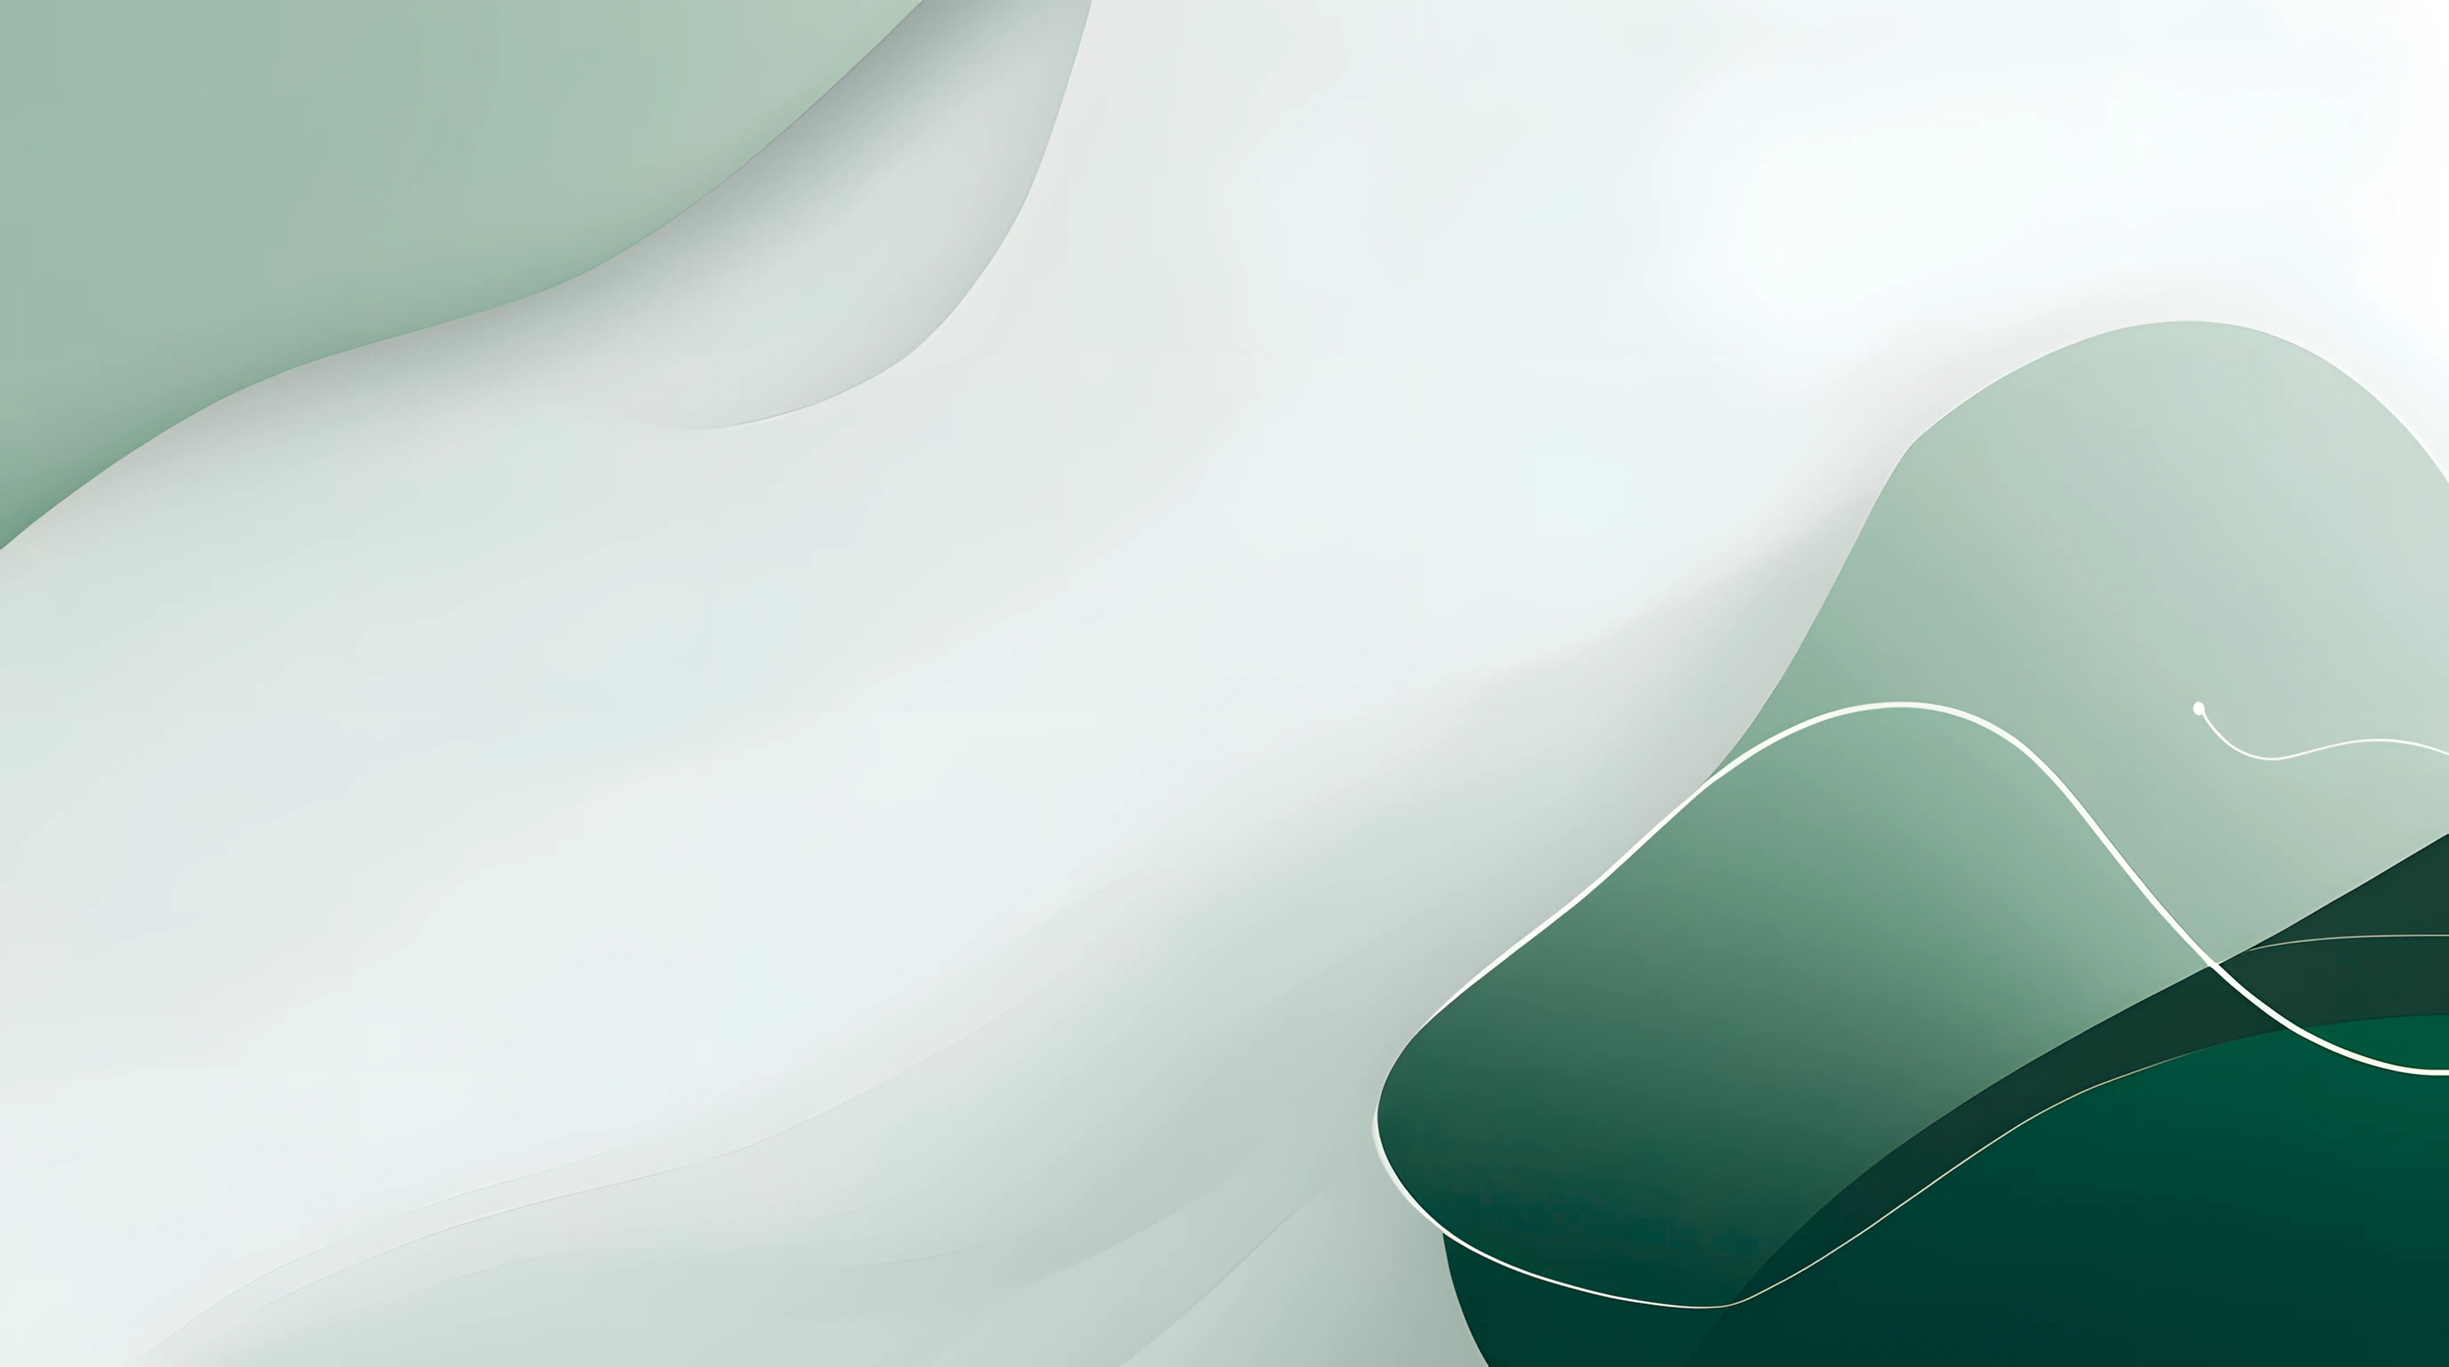
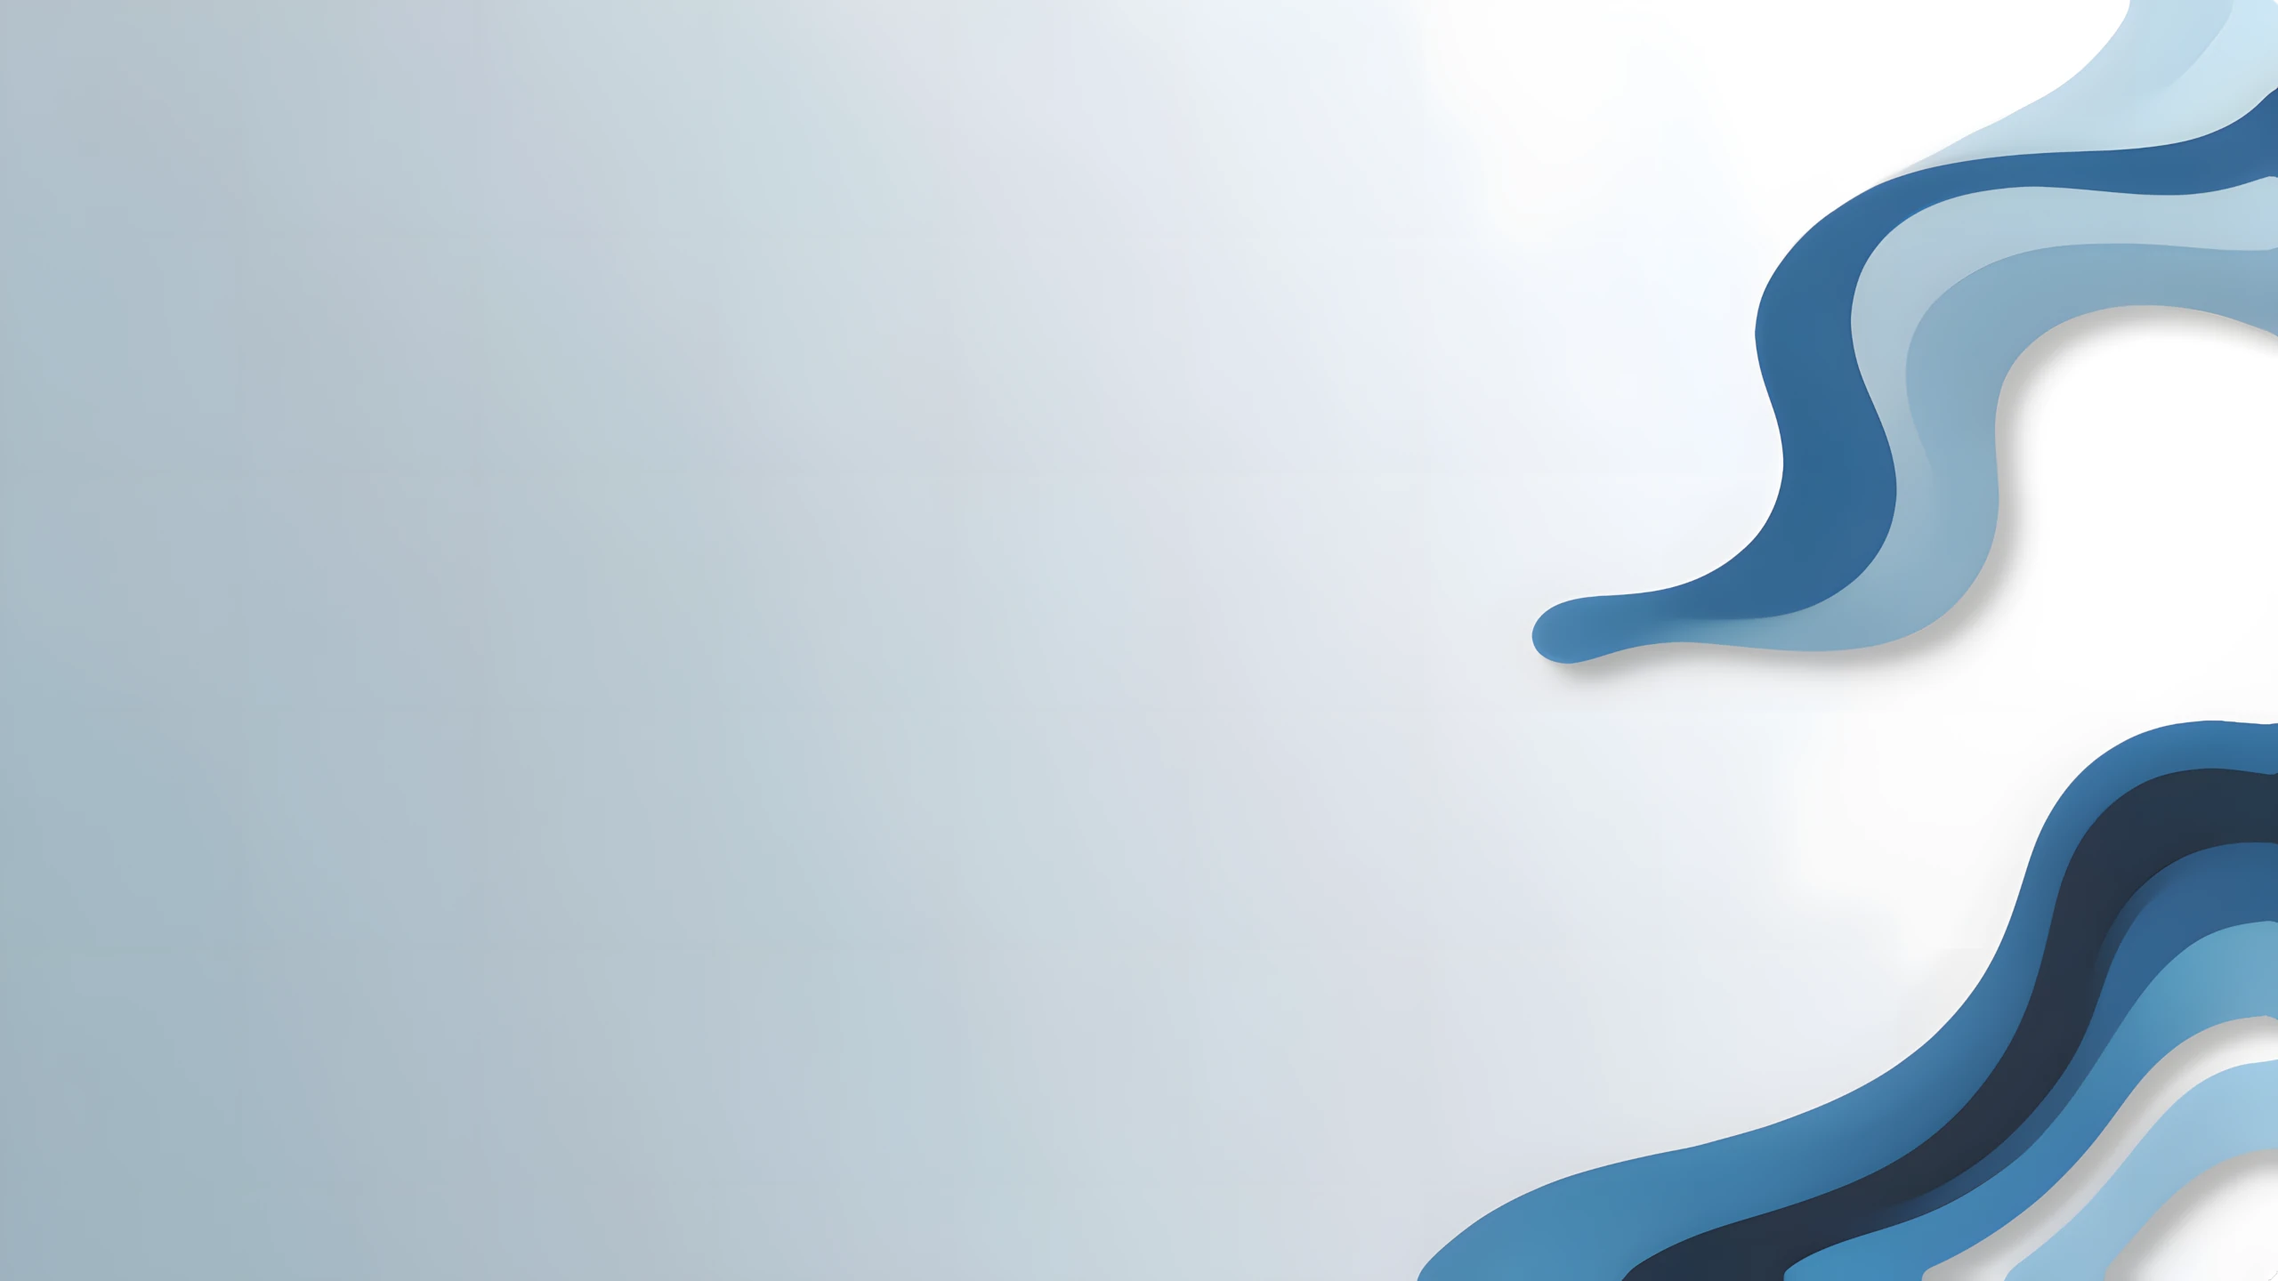
Replace background image on sign-up/sign-in page and align css color to image

diff --git a/about/templates/about/index.html b/about/templates/about/index.html
@@ -1,59 +1,61 @@
 {% extends "base.html" %}
 {% block title %}About RoundZer0{% endblock %}
 {% block content %}
-    <div class="container mt-8">
-        <div class="row justify-content-center">
-            <div class="col-lg-8">
-                <div class="row">
-                    <div class="col-md-12 text-center">
-                        <h1>About RoundZer0</h1>
-                        <p class="mt-4">
-                            Welcome to <strong>RoundZer0</strong>, the platform revolutionizing the hiring process
-                            with AI-driven initial interviews. Our mission is to give everyone an equal opportunity
-                            to showcase their skills, regardless of prior commercial experience, and help employers
-                            identify the best talent efficiently.
-                        </p>
-                        <hr class="my-4">
+    <div class="main-content sign-up-in-bg d-flex justify-content-center align-items-center">
+        <div class="container mt-2">
+            <div class="row justify-content-center">
+                <div class="col-md-8">
+                    <div class="row">
+                        <div class="col-md-12 text-center">
+                            <h1>About RoundZer0</h1>
+                            <p class="mt-4">
+                                Welcome to <strong>RoundZer0</strong>, the platform revolutionizing the hiring process
+                                with AI-driven initial interviews. Our mission is to give everyone an equal opportunity
+                                to showcase their skills, regardless of prior commercial experience, and help employers
+                                identify the best talent efficiently.
+                            </p>
+                            <hr class="my-4">
+                        </div>
                     </div>
-                </div>
-                <div class="row mt-5">
-                    <div class="col-md-6">
-                        <h2>How It Works</h2>
-                        <p>
-                            At RoundZer0, candidates apply for job openings and participate in the "Round Zero"
-                            interview, conducted entirely by AI. These interviews evaluate candidates based on
-                            predefined criteria tailored to the job role, ensuring an unbiased and fair assessment.
-                        </p>
+                    <div class="row mt-5">
+                        <div class="col-md-6">
+                            <h2>How It Works</h2>
+                            <p>
+                                At RoundZer0, candidates apply for job openings and participate in the "Round Zero"
+                                interview, conducted entirely by AI. These interviews evaluate candidates based on
+                                predefined criteria tailored to the job role, ensuring an unbiased and fair assessment.
+                            </p>
+                        </div>
+                        <div class="col-md-6">
+                            <h2>Why RoundZer0?</h2>
+                            <p>
+                                Many talented individuals miss out on opportunities due to lack of commercial experience
+                                or traditional hiring biases. RoundZer0 levels the playing field by allowing candidates
+                                to prove their abilities in the very first round, giving everyone a fair shot at
+                                advancing to the next stage of the hiring process.
+                            </p>
+                        </div>
                     </div>
-                    <div class="col-md-6">
-                        <h2>Why RoundZer0?</h2>
-                        <p>
-                            Many talented individuals miss out on opportunities due to lack of commercial experience
-                            or traditional hiring biases. RoundZer0 levels the playing field by allowing candidates
-                            to prove their abilities in the very first round, giving everyone a fair shot at
-                            advancing to the next stage of the hiring process.
-                        </p>
+                    <div class="row mt-5">
+                        <div class="col-md-12 text-center">
+                            <h2>Empowering Employers</h2>
+                            <p>
+                                For employers, RoundZer0 streamlines the hiring process by shortlisting top candidates
+                                based on AI interview evaluations. This allows recruiters to focus on meaningful
+                                face-to-face interactions in subsequent interview rounds, saving time and resources.
+                            </p>
+                        </div>
                     </div>
-                </div>
-                <div class="row mt-5">
-                    <div class="col-md-12 text-center">
-                        <h2>Empowering Employers</h2>
-                        <p>
-                            For employers, RoundZer0 streamlines the hiring process by shortlisting top candidates
-                            based on AI interview evaluations. This allows recruiters to focus on meaningful
-                            face-to-face interactions in subsequent interview rounds, saving time and resources.
-                        </p>
-                    </div>
-                </div>
-                <div class="row mt-5">
-                    <div class="col-md-12 text-center">
-                        <h2>Our Vision</h2>
-                        <p>
-                            We envision a future where job opportunities are accessible to everyone, and hiring
-                            decisions are driven by talent and potential, not just resumes. RoundZer0 is committed
-                            to building a fair, inclusive, and efficient hiring ecosystem for both candidates
-                            and employers.
-                        </p>
+                    <div class="row mt-5">
+                        <div class="col-md-12 text-center">
+                            <h2>Our Vision</h2>
+                            <p>
+                                We envision a future where job opportunities are accessible to everyone, and hiring
+                                decisions are driven by talent and potential, not just resumes. RoundZer0 is committed
+                                to building a fair, inclusive, and efficient hiring ecosystem for both candidates
+                                and employers.
+                            </p>
+                        </div>
                     </div>
                 </div>
             </div>

diff --git a/static/css/style.css b/static/css/style.css
@@ -1,8 +1,8 @@
 :root {
-    --primary-background: #c1f5e4;
-    --secondary-background: #b2e2d2;
-    --tertiary-background: #fffaeb;
-    --primary-text: #000000ab;
+    --primary-background: #305578;
+    --secondary-background: #447da7;
+    --tertiary-background: #2b3645;
+    --primary-text: #e8ebeb;
     --accent: #11ffb0;
     --shadow: #30303080;
     --shadow-light: #6464643f;
@@ -24,7 +24,6 @@ body {
     font-optical-sizing: auto;
     font-weight: 500;
     font-style: normal;
-    background: var(--tertiary-background);
     margin: 0;
 }
 
@@ -75,7 +74,7 @@ footer {
     height: var(--footer-height);
 
     & .container {
-        background-color: var(--secondary-background);
+        background-color: #e9ebed;
         box-shadow: var(--box-shadow-normal);
         color: #333;
         height: 100%;
@@ -100,13 +99,20 @@ footer {
 }
 
 
+button.btn.btn-primary {
+    background-color: #305377;
+    border: 1px solid #2d4868;
+    border-radius: 8px;
+    box-shadow: 0 2px 4px #2b3645;
+}
+
 
 /* Navigation */
 .navbar {
     width: 100%;
     max-width: 100%;
     box-shadow: var(--box-shadow-normal);
-    background-image: linear-gradient(to top, var(--primary-background), var(--secondary-background));
+    background-image: linear-gradient(to right, var(--primary-background), var(--secondary-background));
     transition: border-radius 0.3s ease-in-out;
 }
 
@@ -127,7 +133,7 @@ footer {
 .nav-item.dropdown .nav-link {
     display: flex;
     align-items: center;
-    background-color: #30303085;
+    background-color: var(--primary-text);
     border-radius: 6px;
     box-shadow: var(--box-shadow-small) inset;
 
@@ -141,7 +147,7 @@ footer {
     display: flex;
     align-items: center;
     font-size: 1.5rem;
-    color: var(--secondary-background);
+    color: var(--primary-background);
 }
 
 .nav-link {
@@ -149,12 +155,16 @@ footer {
     font-weight: 900;
     font-size: 1rem;
     padding-left: 12px;
+
+    &:hover {
+        color: #fff;
+    }
 }
 
 .nav-link.active {
-    color: var(--accent) !important;
+    color: var(--tertiary-background) !important;
     font-weight: 900;
-    background-color: var(--shadow);
+    background-color: var(--primary-text);
     border-radius: 6px;
     box-shadow: var(--box-shadow-small) inset;
     text-shadow: 1px 2px var(--shadow);
@@ -167,7 +177,7 @@ footer {
 
     display: block;
     overflow: hidden;
-    background-color: var(--primary-background);
+    background-color: var(--secondary-background);
     box-shadow: var(--box-shadow-normal);
     border: none;
     padding: 5px;
@@ -192,7 +202,7 @@ footer {
 
     &:hover {
         border-radius: 6px;
-        background-color: var(--shadow);
+        background-color: var(--primary-text);
         color: var(--tertiary-background)
     }
 }
@@ -214,7 +224,8 @@ footer {
 }
 
 .card-header {
-    background-color: var(--primary-background);
+    background-color: var(--secondary-background);
+    color: var(--primary-text);
 }
 
 
@@ -230,20 +241,25 @@ footer {
     box-shadow: none;
 }
 
-
-.form-control {
-    background-color: #fff;
-    border-radius: 6px;
-    border: 2px solid var(--primary-background);
-    transition: border-color 0.3s ease-in-out,box-shadow 0.3s ease-in-out;
+/* Forms */
+.form-control,
+.form-select {
+    line-height: 1.8;
+    background-color: #ffffff00;
+    border-radius: 8px;
+    border: 1px solid #32679000;
+    transition: border-color 0.3s ease-in-out, box-shadow 0.3s ease-in-out;
+    box-shadow: 0 0 6px #0000006e inset;
 }
 
-.form-control:focus {
-    background-color: #fff;
-    border: 2px solid var(--accent);
-    box-shadow: 0 0 4px var(--accent) inset;
-    /* outline: none; */
+.form-control:focus,
+.form-select:focus {
+    outline: none;
+    background-color: #ffffff36;
+    border: 1px solid #326790;
+    box-shadow: 0 0 6px #2b3645 inset;
 }
+
 
 #id_password1_helptext {
     display: none;
@@ -251,9 +267,9 @@ footer {
 
 
 input:-webkit-autofill {
-    background-color: #fff !important;
+    background-color: #b4b4b4 !important;
     color: #000 !important;
-    box-shadow: 0 0 0 100px #fff inset !important;
+    box-shadow: 0 0 0 100px #cacaca inset !important;
     -webkit-box-shadow: 0 0 0 100px #fff inset !important;
 }
 
@@ -391,21 +407,23 @@ input:-webkit-autofill {
     text-decoration: none;
     color: #333;
     border-radius: 4px;
-    transition: background-color 0.3s ease;
+    transition: background-color 0.3s ease border-color 0.3s ease;;
     min-width: 30px;
     text-align: center;
-    background-color: var(--primary-background);
+    background-color: var(--primary-text);
     box-shadow: var(--box-shadow-small);
 }
 
 .pagination .step-links a:hover {
-    background-color: #f0f0f0;
+    background-color: var(--secondary-background);
+    border-color: var(--secondary-background);
+    color: var(--primary-text)
 }
 
 .pagination .step-links .current-page-button {
-    background-color: #007bff;
-    color: white;
-    border-color: #007bff;
+    background-color: var(--primary-background);
+    color: var(--primary-text);
+    border-color: var(--primary-background);
     cursor: default;
 }
 

diff --git a/templates/account/signup.html b/templates/account/signup.html
@@ -6,12 +6,10 @@
 {% block head_title %}{% trans "Signup" %}{% endblock %}
 
 {% block content %}
-<div class="main-content sign-up-in-bg d-flex justify-content-start align-items-center">
+<div class="main-content sign-up-in-bg d-flex justify-content-center align-items-center">
   <div class="container mt-2">
-    <div class="row">
-      <div class="col-md-6">
-        <div class="card shadow rounded rounded-4">
-          <div class="card-body p-5">
+    <div class="row justify-content-center">
+      <div class="col-md-6 p-5">
             <h2 class="text-center mb-4">{% trans "Sign Up" %}</h2>
             <p class="text-center">
               {% blocktrans %}
@@ -21,7 +19,6 @@
                 instead.
               {% endblocktrans %}
             </p>
-
             <form class="signup" id="signup_form" method="post" action="{% url 'account_signup' %}">
               {% csrf_token %}
               {{ form|crispy }}
@@ -32,8 +29,6 @@
                 <button class="btn btn-primary" type="submit">{% trans "Sign Up" %}</button>
               </div>
             </form>
-          </div>
-        </div>
       </div>
     </div>
   </div>

diff --git a/templates/account/login.html b/templates/account/login.html
@@ -9,9 +9,8 @@
 <div class="main-content sign-up-in-bg d-flex justify-content-between align-items-center">
   <div class="container mt-2">
     <div class="row justify-content-center">
-      <div class="col-md-6">
-        <div class="card shadow">
-          <div class="card-body p-5">
+      <div class="col-md-6 p-5">
+
             <h2 class="text-center mb-4">{% trans "Sign In" %}</h2>
 
             {% if not SOCIALACCOUNT_ONLY %}
@@ -50,8 +49,6 @@
             </div>
             {% endif %}
 
-          </div>
-        </div>
         {% if SOCIALACCOUNT_ENABLED %}
         <div class="mt-3 text-center">
           {% include "socialaccount/snippets/login.html" %}

diff --git a/templates/base.html b/templates/base.html
@@ -50,7 +50,7 @@
                             </a>
                         </li>
                         <li class="nav-item">
-                            <a class="nav-link {% if request.path == jobs_url %}active{% endif %}" aria-current="page" href="{% url 'jobs' %}">
+                            <a class="nav-link {% if request.path == jobs_url %}active{% endif %}" aria-current="page" href="{{ jobs_url }}">
                                 <i class="bi bi-briefcase-fill me-2"></i>Jobs
                             </a>
                         </li>

diff --git a/jobposts/templates/jobposts/index.html b/jobposts/templates/jobposts/index.html
@@ -7,7 +7,7 @@
     <div class="container mt-8">
         <h1 class="text-center">Job Openings</h1>
         <div class="row justify-content-center">
-            <div class="col-lg-8">
+            <div class="col-md-8">
                 <div class="row">
                     {% for job in object_list %}
                         <div class="col-md-6 mb-4">

diff --git a/roundzero/forms.py b/roundzero/forms.py
@@ -6,13 +6,13 @@ from employer_profiles.models import Employer
 
 class CustomSignupForm(SignupForm):
     USER_TYPE_CHOICES = (
-        ('employer', 'Employer'),
         ('candidate', 'Candidate'),
+        ('employer', 'Employer')
     )
     user_type = forms.ChoiceField(
         choices=USER_TYPE_CHOICES,
         label="I am a",
-        widget=forms.Select  # Changed to forms.Select for dropdown
+        widget=forms.Select
     )
 
     def save(self, request):
